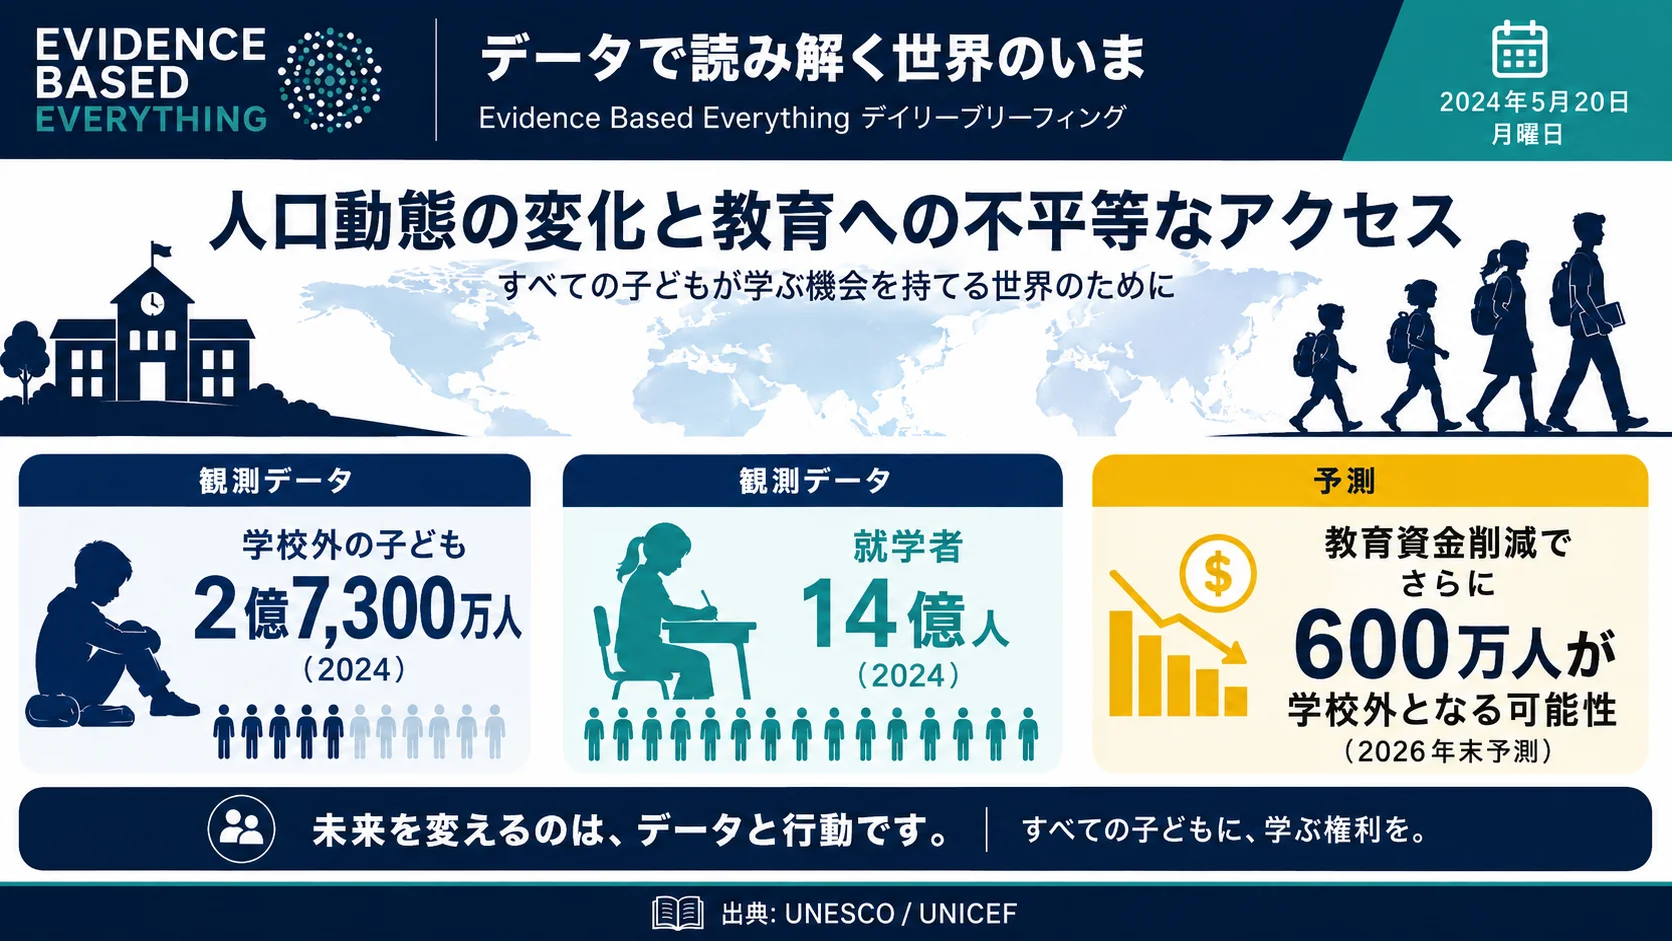
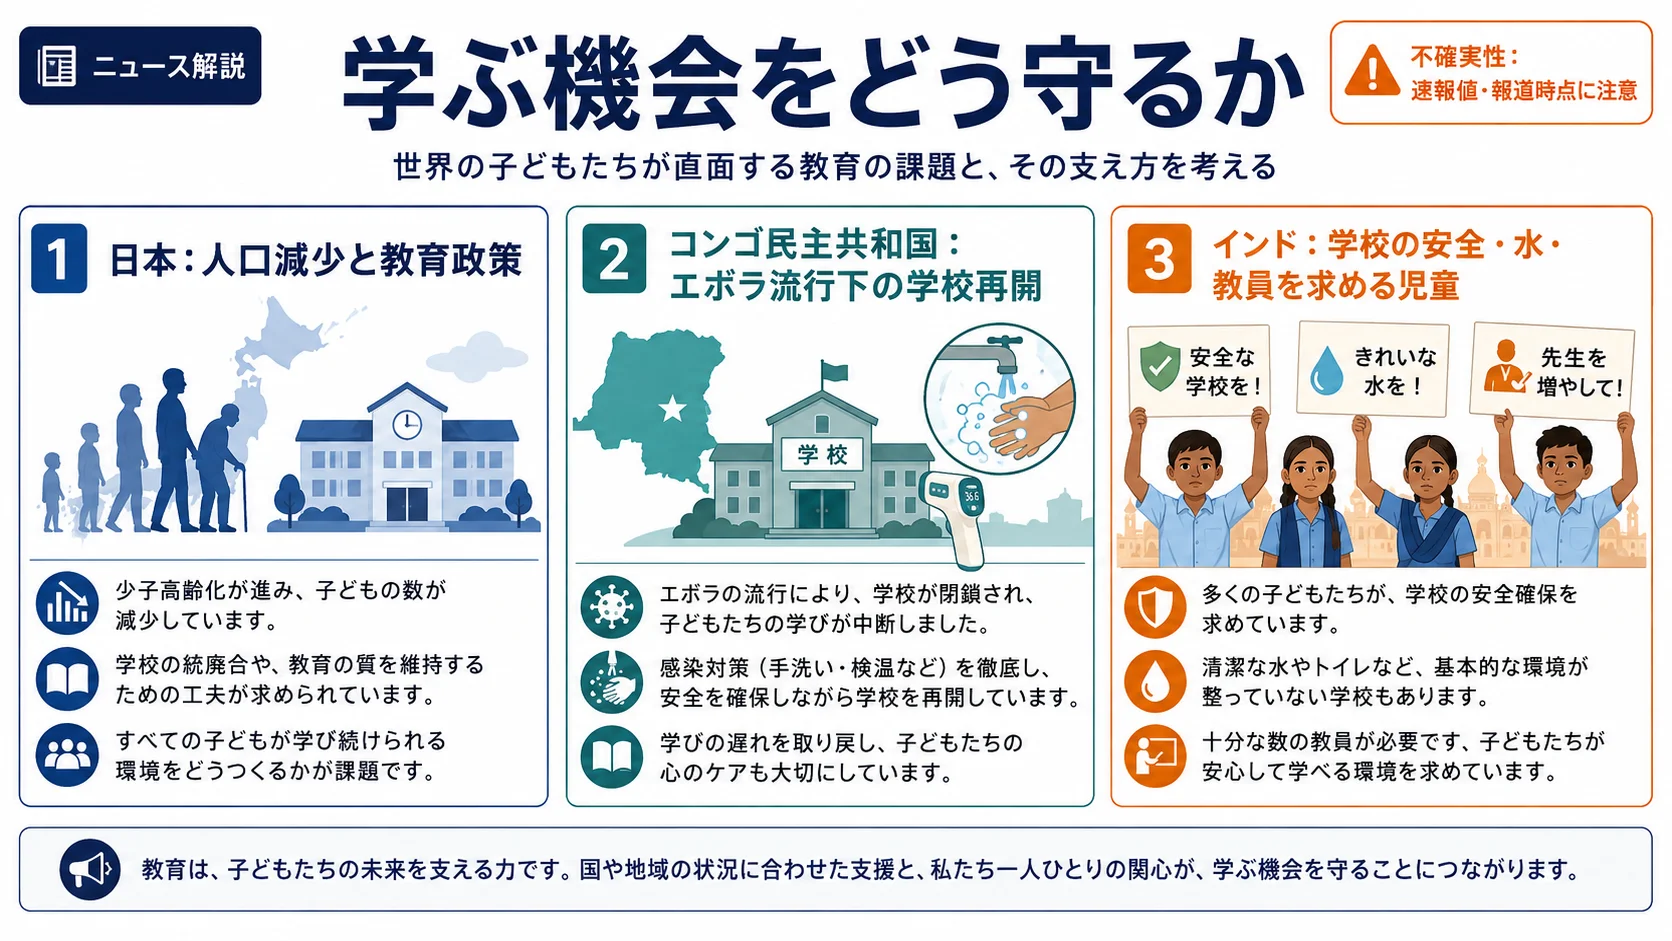
deploy: update site

diff --git a/news/2026-09-04/Society_Population_Education/index.html b/news/2026-09-04/Society_Population_Education/index.html
@@ -1,40 +1,48 @@
-<!doctype html><html lang="ja"><head><meta charset="utf-8"><meta name="viewport" content="width=device-width,initial-scale=1"><title>2026-09-04_Society_Population_Education | EBS</title><meta name="description" content="News / 2026-09-04 Society_Population_Education 2026-09-04_Society_Population_Education 2026-09-04 要点 図解：世界の就学状況と教育資金リスク。観測値と予測を区別して表示（ 1 2 ）。 図解：世界の就学状況と教育資金リスク。観測値と予測を区別して表示（[1][2]）。 2026-09-04 06_So"><meta property="og:title" content="2026-09-04_Society_Population_Education"><meta property="og:description" content="News / 2026-09-04 Society_Population_Education 2026-09-04_Society_Population_Education 2026-09-04 要点 図解：世界の就学状況と教育資金リスク。観測値と予測を区別して表示（ 1 2 ）。 図解：世界の就学状況と教育資金リスク。観測値と予測を区別して表示（[1][2]）。 2026-09-04 06_So"><meta property="og:type" content="website"><meta name="twitter:card" content="summary"><meta name="twitter:title" content="2026-09-04_Society_Population_Education"><meta name="twitter:description" content="News / 2026-09-04 Society_Population_Education 2026-09-04_Society_Population_Education 2026-09-04 要点 図解：世界の就学状況と教育資金リスク。観測値と予測を区別して表示（ 1 2 ）。 図解：世界の就学状況と教育資金リスク。観測値と予測を区別して表示（[1][2]）。 2026-09-04 06_So"><link rel="icon" href="/Evidence-Based-Slopedia-Pages/assets/favicon.svg"><link rel="stylesheet" href="/Evidence-Based-Slopedia-Pages/assets/ebs.css"><style>.card{container-type:inline-size}.card-media{position:relative}.card-media .hero,.card-media .thumbnail{display:block;width:100%;aspect-ratio:16/9;object-fit:cover;object-position:center}.card-date{position:absolute;top:.45rem;left:.45rem;padding:.15rem .4rem;border-radius:.25rem;background:rgba(0,0,0,.72);color:#fff;font:600 .72rem ui-sans-serif,sans-serif;line-height:1.2}.card-topic{font-size:.78rem;line-height:1.2;white-space:nowrap;overflow:hidden;text-overflow:ellipsis}.card h2{font-size:clamp(.78rem,8cqw,1.2rem);line-height:1.3;display:-webkit-box;-webkit-line-clamp:3;-webkit-box-orient:vertical;overflow:hidden}.card h2 a{overflow-wrap:anywhere;word-break:break-word}@media(max-width:560px){.card h2{-webkit-line-clamp:2;max-height:2.6em}.card>div{overflow:hidden}}</style></head><body><a class="skip-link" href="#content">本文へ移動</a><header class="site-header"><a class="brand" href="/Evidence-Based-Slopedia-Pages/">EBS</a><nav aria-label="主なナビゲーション"><a href="/Evidence-Based-Slopedia-Pages/articles/">Articles</a><a href="/Evidence-Based-Slopedia-Pages/news/">News</a><a href="/Evidence-Based-Slopedia-Pages/forecast/">Forecast</a><a href="/Evidence-Based-Slopedia-Pages/topics/">Topics</a><a href="/Evidence-Based-Slopedia-Pages/recent/">Recent</a><a href="/Evidence-Based-Slopedia-Pages/about/">About</a><a href="/Evidence-Based-Slopedia-Pages/search/">Search</a></nav></header><div id="content"><main><nav class="breadcrumb"><a href="/Evidence-Based-Slopedia-Pages/news/">News</a> / <a href="/Evidence-Based-Slopedia-Pages/news/2026-09-04/">2026-09-04</a></nav><article><p class="kicker">Society_Population_Education</p><h1>2026-09-04_Society_Population_Education</h1><p class="metadata">2026-09-04</p><section class="summary-card"><h2>要点</h2><p>図解：世界の就学状況と教育資金リスク。観測値と予測を区別して表示（ 1 2 ）。</p></section><div class="content"><p><img src="/Evidence-Based-Slopedia-Pages/assets/50_Assets/Infographics/Daily/2026-09-04_society-population-education.webp" alt="2026-09-04_society-population-education"></p>
-<p><em>図解：世界の就学状況と教育資金リスク。観測値と予測を区別して表示（[1][2]）。</em></p>
-<h1>2026-09-04 06_Society_Population_Education Daily Briefing</h1>
-<h2 id="h-今日の要点">今日の要点</h2>
-<p>9月3日から4日（日本時間）に確認できる社会・人口・教育分野の中心テーマは、人口動態による教育需要の変化と、資金不足が就学機会を押し下げるリスクです。UNESCOの2026年GEM報告は、2024年に世界で14億人が初等・中等教育に在籍する一方、学校外の子どもが7年連続で増え、2億7,300万人に達したと整理しています。[1]</p>
-<h2 id="h-主要ニュース">主要ニュース</h2>
-<h3 id="h-1-就学拡大の成果と停滞が同時に進む">1. 就学拡大の成果と停滞が同時に進む</h3>
-<p>UNESCOによれば、初等・中等教育の在籍者数は2000年から2024年までに3億2,700万人、30%増えました。しかし2015年以降、在学継続の改善はほぼ全地域で鈍化し、サブサハラ・アフリカでは人口増加が停滞の主因の一つとされています。[1] これは「学校に入れる人数を増やす政策」と「増える学齢人口に教育の質を供給する政策」を分けて考える必要を示します。</p>
-<h3 id="h-2-教育援助の削減は-出席だけでなく質にも波及する可能性">2. 教育援助の削減は、出席だけでなく質にも波及する可能性</h3>
-<p>UNICEFは2025年9月3日に、教育分野の政府開発援助が2023年比で32億米ドル、24%減るシナリオでは、2026年末までに学校外の子どもが約600万人増える可能性があると推計しました。[2] これは確定した実績ではなく、OECDの援助データ、DonorTracker、各国の予算方針を基に、一定の削減が短期には吸収されないと仮定した予測です。[2]</p>
-<p>同じ分析は、在籍を維持できる子どもにも影響が及び、少なくとも2億9,000万人の学習の質が低下する可能性を示しています。[2] 学校給食、教師育成、学習成果の把握など、教育制度の周辺機能まで含めて資金を評価する必要があります。</p>
-<h3 id="h-3-日本の人口統計は-速報性-と-確定性-を分けて読む">3. 日本の人口統計は「速報性」と「確定性」を分けて読む</h3>
-<p>総務省統計局の人口推計ページでは、最新月の人口を概算値として公表し、データ更新後およそ5か月で確定値にする方法が説明されています。[3] したがって、人口減少や年齢構成を教育政策と結び付ける際は、最新の速報値を長期傾向の確定値と混同しないことが重要です。日本統計年鑑には、人口推移、年齢別人口、教育程度別人口、出生・死亡、人口移動など、教育需要を読むための基礎表が収録されています。[4]</p>
-<h2 id="h-背景と意味">背景と意味</h2>
-<p>人口が増える地域では、教室・教員・教材を増やす供給力が課題になります。人口が減る地域では、学校統廃合、通学距離、教員配置、地域の学習機会をどう維持するかが課題になります。UNESCOの報告が示すように、世界全体の在籍拡大は現実の成果ですが、地域差と人口動態を無視した一律目標では、就学率と学習の質の両方を改善できない可能性があります。[1]</p>
+<!doctype html><html lang="ja"><head><meta charset="utf-8"><meta name="viewport" content="width=device-width,initial-scale=1"><title>2026-09-04_Society_Population_Education | EBS</title><meta name="description" content="News / 2026-09-04 Society_Population_Education 2026-09-04_Society_Population_Education 2026-09-04 要点 図解：人口動態と教育制度、感染症・学校インフラをめぐる本日の論点。 1 2 3 4 5 図解：人口動態と教育制度、感染症・学校インフラをめぐる本日の論点。[1][2][3][4][5] 2026-0"><meta property="og:title" content="2026-09-04_Society_Population_Education"><meta property="og:description" content="News / 2026-09-04 Society_Population_Education 2026-09-04_Society_Population_Education 2026-09-04 要点 図解：人口動態と教育制度、感染症・学校インフラをめぐる本日の論点。 1 2 3 4 5 図解：人口動態と教育制度、感染症・学校インフラをめぐる本日の論点。[1][2][3][4][5] 2026-0"><meta property="og:type" content="website"><meta name="twitter:card" content="summary"><meta name="twitter:title" content="2026-09-04_Society_Population_Education"><meta name="twitter:description" content="News / 2026-09-04 Society_Population_Education 2026-09-04_Society_Population_Education 2026-09-04 要点 図解：人口動態と教育制度、感染症・学校インフラをめぐる本日の論点。 1 2 3 4 5 図解：人口動態と教育制度、感染症・学校インフラをめぐる本日の論点。[1][2][3][4][5] 2026-0"><link rel="icon" href="/Evidence-Based-Slopedia-Pages/assets/favicon.svg"><link rel="stylesheet" href="/Evidence-Based-Slopedia-Pages/assets/ebs.css"><style>.card{container-type:inline-size}.card-media{position:relative}.card-media .hero,.card-media .thumbnail{display:block;width:100%;aspect-ratio:16/9;object-fit:cover;object-position:center}.card-date{position:absolute;top:.45rem;left:.45rem;padding:.15rem .4rem;border-radius:.25rem;background:rgba(0,0,0,.72);color:#fff;font:600 .72rem ui-sans-serif,sans-serif;line-height:1.2}.card-topic{font-size:.78rem;line-height:1.2;white-space:nowrap;overflow:hidden;text-overflow:ellipsis}.card h2{font-size:clamp(.78rem,8cqw,1.2rem);line-height:1.3;display:-webkit-box;-webkit-line-clamp:3;-webkit-box-orient:vertical;overflow:hidden}.card h2 a{overflow-wrap:anywhere;word-break:break-word}@media(max-width:560px){.card h2{-webkit-line-clamp:2;max-height:2.6em}.card>div{overflow:hidden}}</style></head><body><a class="skip-link" href="#content">本文へ移動</a><header class="site-header"><a class="brand" href="/Evidence-Based-Slopedia-Pages/">EBS</a><nav aria-label="主なナビゲーション"><a href="/Evidence-Based-Slopedia-Pages/articles/">Articles</a><a href="/Evidence-Based-Slopedia-Pages/news/">News</a><a href="/Evidence-Based-Slopedia-Pages/forecast/">Forecast</a><a href="/Evidence-Based-Slopedia-Pages/topics/">Topics</a><a href="/Evidence-Based-Slopedia-Pages/recent/">Recent</a><a href="/Evidence-Based-Slopedia-Pages/about/">About</a><a href="/Evidence-Based-Slopedia-Pages/search/">Search</a></nav></header><div id="content"><main><nav class="breadcrumb"><a href="/Evidence-Based-Slopedia-Pages/news/">News</a> / <a href="/Evidence-Based-Slopedia-Pages/news/2026-09-04/">2026-09-04</a></nav><article><p class="kicker">Society_Population_Education</p><h1>2026-09-04_Society_Population_Education</h1><p class="metadata">2026-09-04</p><section class="summary-card"><h2>要点</h2><p>図解：人口動態と教育制度、感染症・学校インフラをめぐる本日の論点。 1 2 3 4 5</p></section><div class="content"><p><img src="/Evidence-Based-Slopedia-Pages/assets/50_Assets/Infographics/Daily/2026-09-04_society-population-education.webp" alt="2026-09-04_society-population-education"></p>
+<p><em>図解：人口動態と教育制度、感染症・学校インフラをめぐる本日の論点。[1][2][3][4][5]</em></p>
+<h1>2026-09-04 Society Population Education Daily Briefing</h1>
+<h2 id="h-今日読むべき要点">今日読むべき要点</h2>
+<ul>
+<li>日本では、総務省統計局が2026年8月1日現在の総人口を1億2268万人（概算値）として掲載している。人口規模の変化は、学校配置や教育資源の配分を考える基礎条件になる。[1]</li>
+<li>コンゴ民主共和国（DRC）東部では、エボラ流行の中心地Ituriで新学期が始まった。学校は学習機会を守る場である一方、感染対策と安全確保を同時に求められている。[3][4]</li>
+<li>インドでは、老朽校舎、水、電力、机、教員不足などを訴える児童・生徒の抗議が報じられた。教育アクセスは就学者数だけでなく、安心して学べる環境の質でも測る必要がある。[5]</li>
+</ul>
+<h2 id="h-重要ニュース">重要ニュース</h2>
+<h3 id="h-1-日本-人口推計と教育政策の接点">1. 日本：人口推計と教育政策の接点</h3>
+<p>総務省統計局は、国勢調査を基礎に各月1日現在の人口を算出している。最新掲載値は、2026年8月1日現在の総人口1億2268万人（概算値）である。[1] これは9月3〜4日の新規報道というより、現在確認できる公的な基礎指標として読むべき情報だ。</p>
+<p>文部科学省の9月公表一覧では、9月3日に大学分科会の開催案内と、世界トップレベル大学院教育拠点創出事業の選定結果、9月4日に大学院部会の開催案内が掲載されている。[2] 人口減少局面では、教育の量的拡大だけでなく、大学院を含む教育拠点の質・配置・持続可能性をどう保つかが政策課題になる。ただし、今回確認した資料だけから個別施策の効果や将来の学校数を断定することはできない。</p>
+<h3 id="h-2-drc-エボラ流行下で学校を再開">2. DRC：エボラ流行下で学校を再開</h3>
+<p>APは、DRCのIturi州で9月1日に新学年が始まり、保護者・教員の懸念がある中で政府が再開を進めたと報じた。[3] 学校では非接触体温計、消毒剤、手洗い設備などが用意され、衛生手順の周知も行われている一方、出席率が低い学校や、清潔な水・資金・物資輸送の課題が残るという。[3]</p>
+<p>WHOの8月28日更新では、8月26日時点で確認症例5794例、死亡2786例、60保健区域・6州に拡大し、Ituriでは36保健区域中28区域が影響を受けている。[4] AP記事の「学校再開」とWHOの疾病サーベイランスは更新日と集計時点が異なるため、数字を単純に同じ時点の速報として扱わないことが重要である。学習の中断を短くする意義と、感染防止・地域の信頼・水衛生を満たす条件を同時に評価する必要がある。</p>
+<h3 id="h-3-インド-児童が学校の基本条件を訴える">3. インド：児童が学校の基本条件を訴える</h3>
+<p>Al Jazeeraは9月4日、インド北部ウッタル・プラデーシュ州の公立小学校で、児童122人が老朽校舎の建て替え確約を求めて授業に入ることを拒んだ事例を報じた。[5] 同記事は、少なくとも10州で、校舎の安全、飲料水、電力、机、教員、給食の質などをめぐる類似の抗議が報告されているとしている。[5]</p>
+<p>同時に、同記事が紹介する公式監査ではアクセス改善、教員・児童比の改善、退学率低下が示される一方、単独教員校や在籍者のいない「ゴーストスクール」も指摘されている。[5] 全国平均の改善と、個々の学校の劣悪な環境は両立し得るため、平均値だけで教育の実態を判断しないことが今回の焦点である。</p>
+<h2 id="h-背景と文脈">背景と文脈</h2>
+<p>今日のニュースは、人口・制度・危機という異なる入口から、教育を「席があるか」だけでなく「安全に、継続的に、十分な環境で学べるか」という問題として示している。日本では人口推計が教育資源の持続可能性を考える土台となり、DRCでは公衆衛生と学習継続の両立、インドでは学校インフラと子どもの声の反映が前景化している。[1][3][4][5]</p>
 <h2 id="h-何がまだ不確かか">何がまだ不確かか</h2>
 <ul>
-<li>UNESCOの2億7,300万人は報告時点で利用可能な国際統計に基づく集計で、国・地域によってデータの時点や欠測が異なります。[1]</li>
-<li>UNICEFの追加600万人は、援助削減と政府の吸収能力に関する仮定を置いた予測であり、実績値ではありません。[2]</li>
-<li>総務省の概算人口は後日改訂され得るため、自治体別の学校計画には確定値、年齢別内訳、人口移動を併用する必要があります。[3][4]</li>
-<li>本日確認できた範囲では、9月3〜4日付の日本の教育・人口に関する新規公表は限定的でした。そのため、速報ニュースだけでなく、直近に確認できる公式統計・国際機関の分析を「今日読むべき背景」として掲載しています。</li>
+<li>日本の人口値は8月1日現在の概算値であり、9月4日時点の確定値ではない。[1]</li>
+<li>DRCの症例・死亡数はWHOの8月26日時点の集計で、学校再開日の現地状況を完全には表さない。[3][4]</li>
+<li>インドの「少なくとも10州」や学校の問題は報道に基づく集計で、全国の全学校を無作為に調査した推計ではない。[5]</li>
+<li>学校再開、インフラ投資、教育成果の因果関係は、今回確認した速報・報道資料だけでは評価できない。</li>
 </ul>
-<h2 id="h-読むポイント">読むポイント</h2>
+<h2 id="h-読む順番">読む順番</h2>
 <ol>
-<li>「学校外の人数」の変化と、学齢人口そのものの変化を分けて確認する。</li>
-<li>教育予算の総額だけでなく、給食、教師、基礎学習、紛争・避難時の教育への配分を見る。</li>
-<li>予測を実績として扱わず、前提・対象国・期間を参照する。</li>
+<li>総務省統計局で日本の人口推計の定義と時点を確認する。[1]</li>
+<li>文部科学省の9月発表一覧で、大学院政策の一次資料への導線を確認する。[2]</li>
+<li>WHOでDRCの流行規模と地理的広がりを確認したうえで、APの学校現場の報道を読む。[3][4]</li>
+<li>Al Jazeeraの記事で、インドの公式監査値と現場の証言がどのように併記されているかを確認する。[5]</li>
 </ol>
 <h2 id="h-参考ソース">参考ソース</h2>
 <ol>
-<li>UNESCO, “More children out of school for the 7th year in a row, up to 273 million,” 2026年公開ページ, Accessed 2026-09-04. <a href="https://www.unesco.org/en/articles/more-children-out-school-7th-year-row-273-million">https://www.unesco.org/en/articles/more-children-out-school-7th-year-row-273-million</a></li>
-<li>UNICEF, “Global funding cuts could force 6 million more children out of school in the coming year,” 2025-09-03, Accessed 2026-09-04. <a href="https://www.unicef.org/press-releases/global-funding-cuts-could-force-6-million-more-children-out-school-coming-year">https://www.unicef.org/press-releases/global-funding-cuts-could-force-6-million-more-children-out-school-coming-year</a></li>
-<li>総務省統計局「人口推計の結果の概要」, Accessed 2026-09-04. <a href="https://www.stat.go.jp/data/jinsui/2.html">https://www.stat.go.jp/data/jinsui/2.html</a></li>
-<li>総務省統計局「第七十五回日本統計年鑑 令和8年 第2章 人口・世帯」, Accessed 2026-09-04. <a href="https://www.stat.go.jp/data/nenkan/75nenkan/02.html">https://www.stat.go.jp/data/nenkan/75nenkan/02.html</a></li>
+<li>総務省統計局「人口推計」, <a href="https://www.stat.go.jp/data/jinsui/">https://www.stat.go.jp/data/jinsui/</a> （2026-09-04閲覧）</li>
+<li>文部科学省「令和8年度 教育に関わる報道発表」, <a href="https://www.mext.go.jp/b_menu/houdou/kyoiku/2026/index.html">https://www.mext.go.jp/b_menu/houdou/kyoiku/2026/index.html</a> （2026-09-04閲覧）</li>
+<li>Associated Press, “Schools reopen in Congo’s Ebola epicenter despite concerns from parents and teachers”, <a href="https://apnews.com/article/congo-ebola-schools-resume-32efe12c400db42f99d554799498bc52">https://apnews.com/article/congo-ebola-schools-resume-32efe12c400db42f99d554799498bc52</a> （2026-09-04閲覧）</li>
+<li>World Health Organization, “Ebola disease caused by Bundibugyo virus - Democratic Republic of the Congo”, <a href="https://www.who.int/emergencies/disease-outbreak-news/item/2026-DON616">https://www.who.int/emergencies/disease-outbreak-news/item/2026-DON616</a> （2026-09-04閲覧）</li>
+<li>Al Jazeera, “After Gen Z, India’s Gen Alpha rises, demanding education reforms”, <a href="https://www.aljazeera.com/news/2026/9/4/after-gen-z-indias-gen-alpha-rises-demanding-education-reforms">https://www.aljazeera.com/news/2026/9/4/after-gen-z-indias-gen-alpha-rises-demanding-education-reforms</a> （2026-09-04閲覧）</li>
 </ol>
 <h2 id="h-更新履歴">更新履歴</h2>
 <ul>
-<li>2026-09-04: 初版作成。2026-09-03〜09-04 JSTの確認範囲、UNESCO・UNICEF・総務省統計局の公開情報を反映。インフォグラフィックを生成・検証。</li>
+<li>2026-09-04: 初版作成。2026年9月3〜4日（日本時間）を中心に、国内外の公的機関・報道機関の情報を確認し、引用・不確実性・画像を追加。</li>
 </ul>
 </div></article></main></div><footer>Evidence Based Slopedia</footer></body></html>
